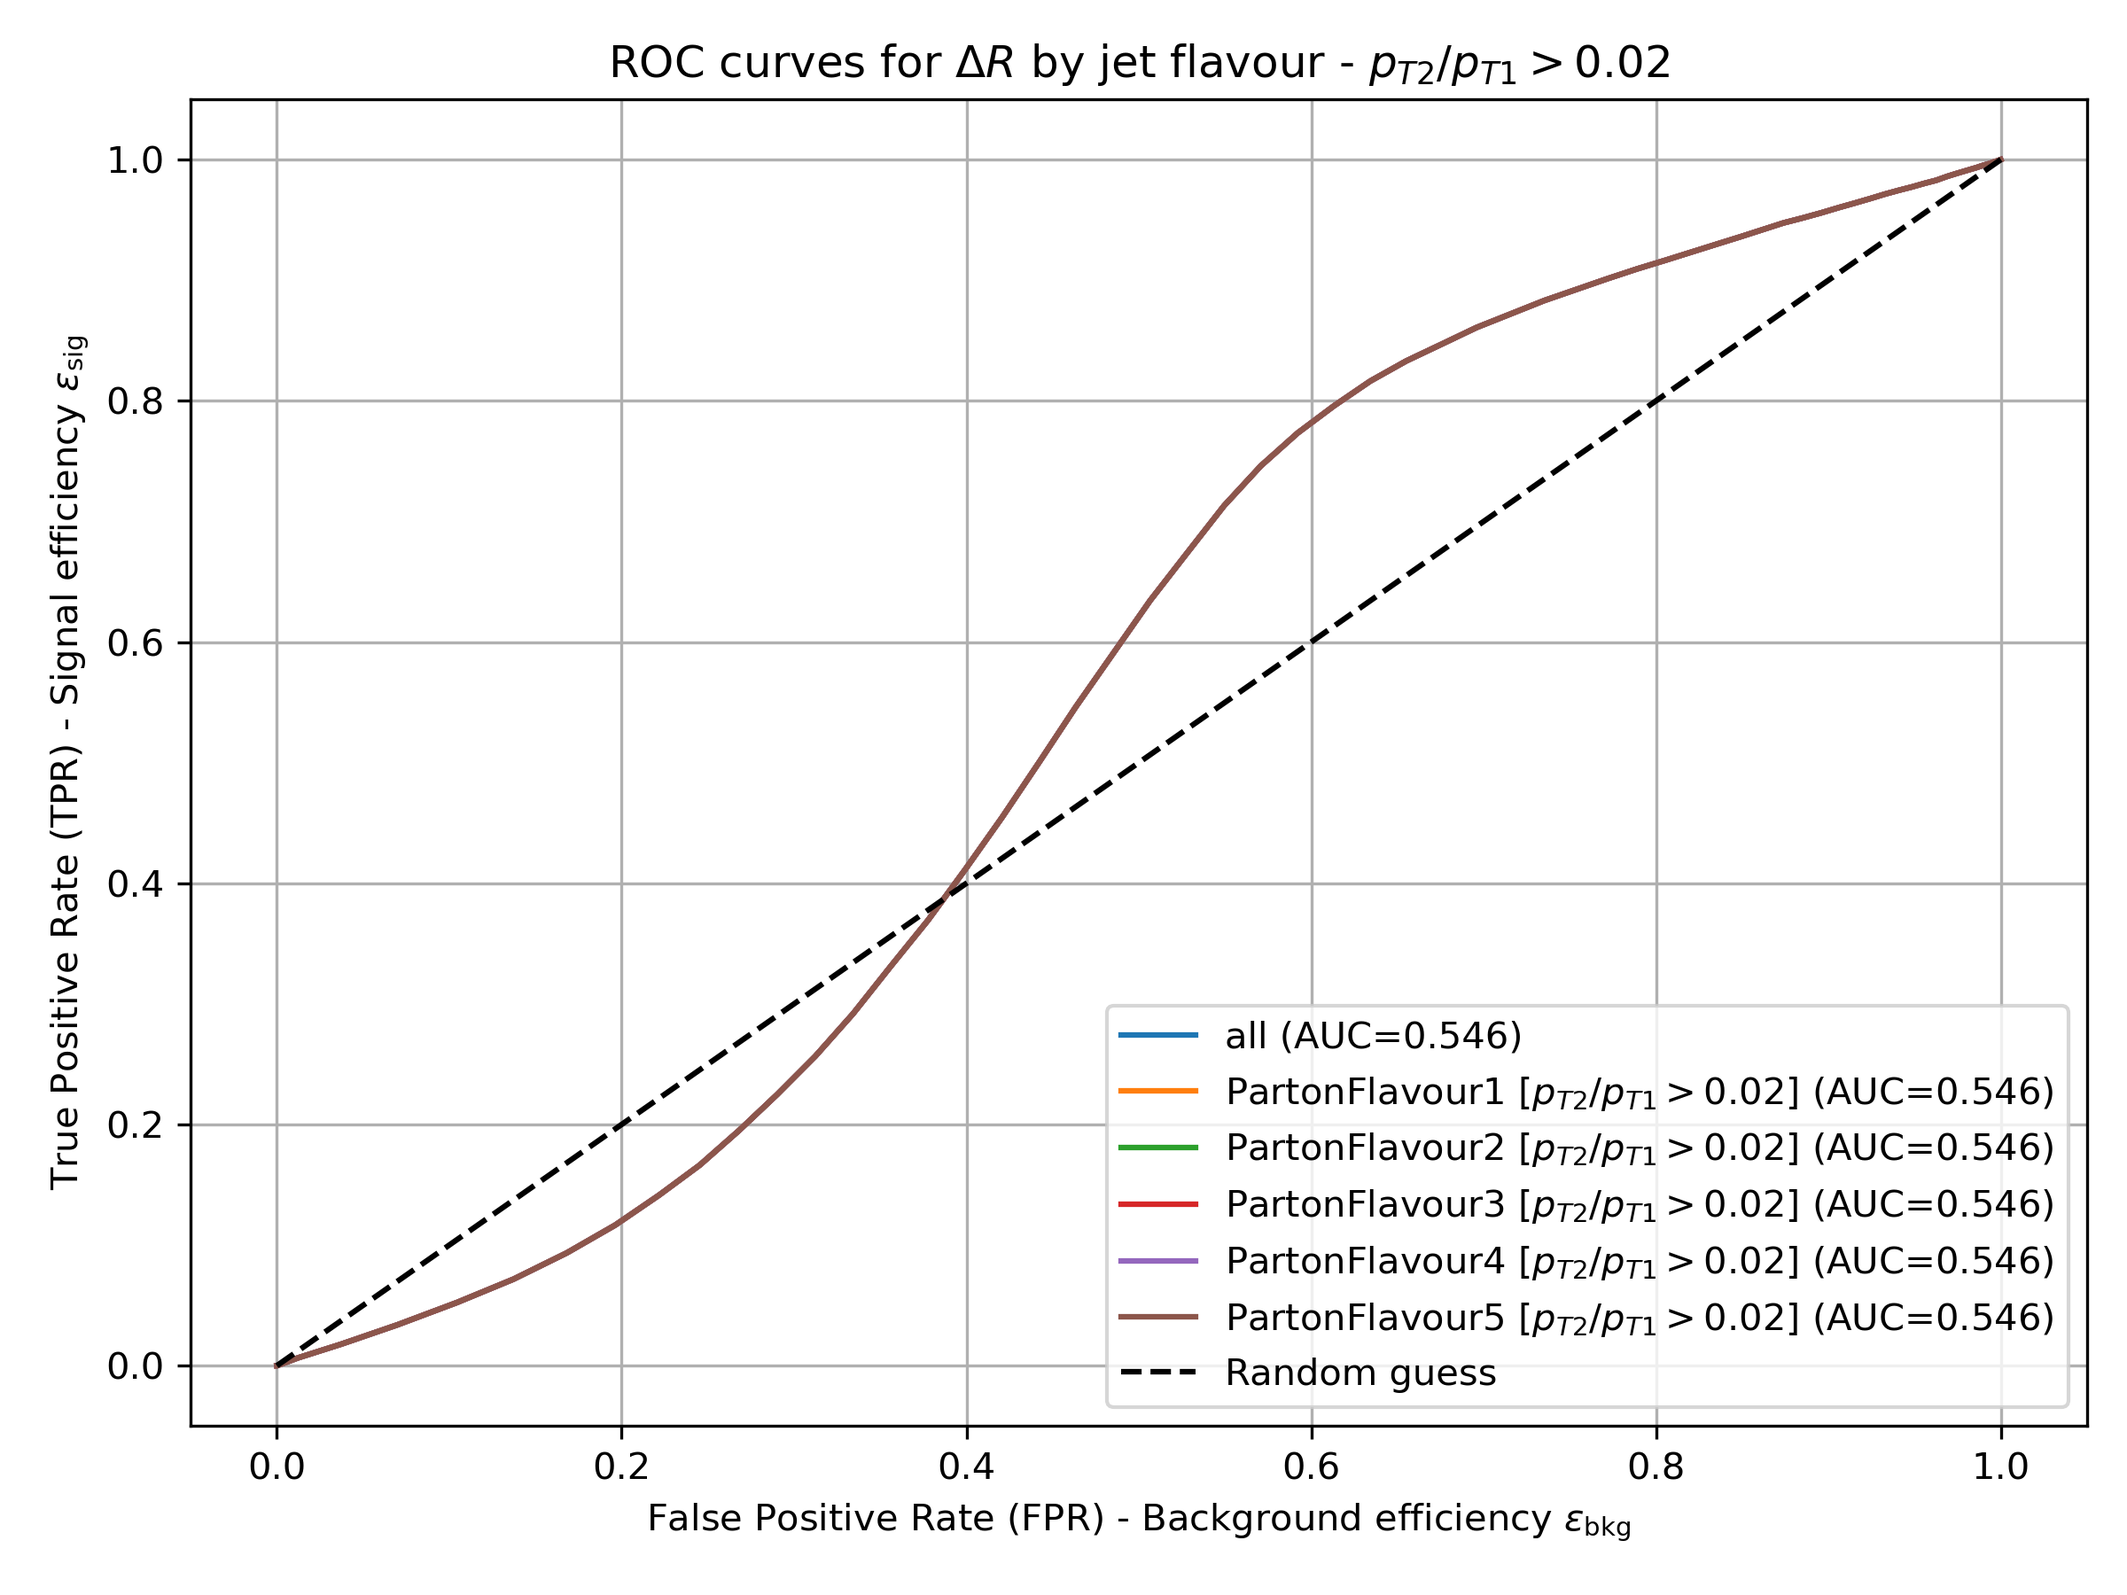
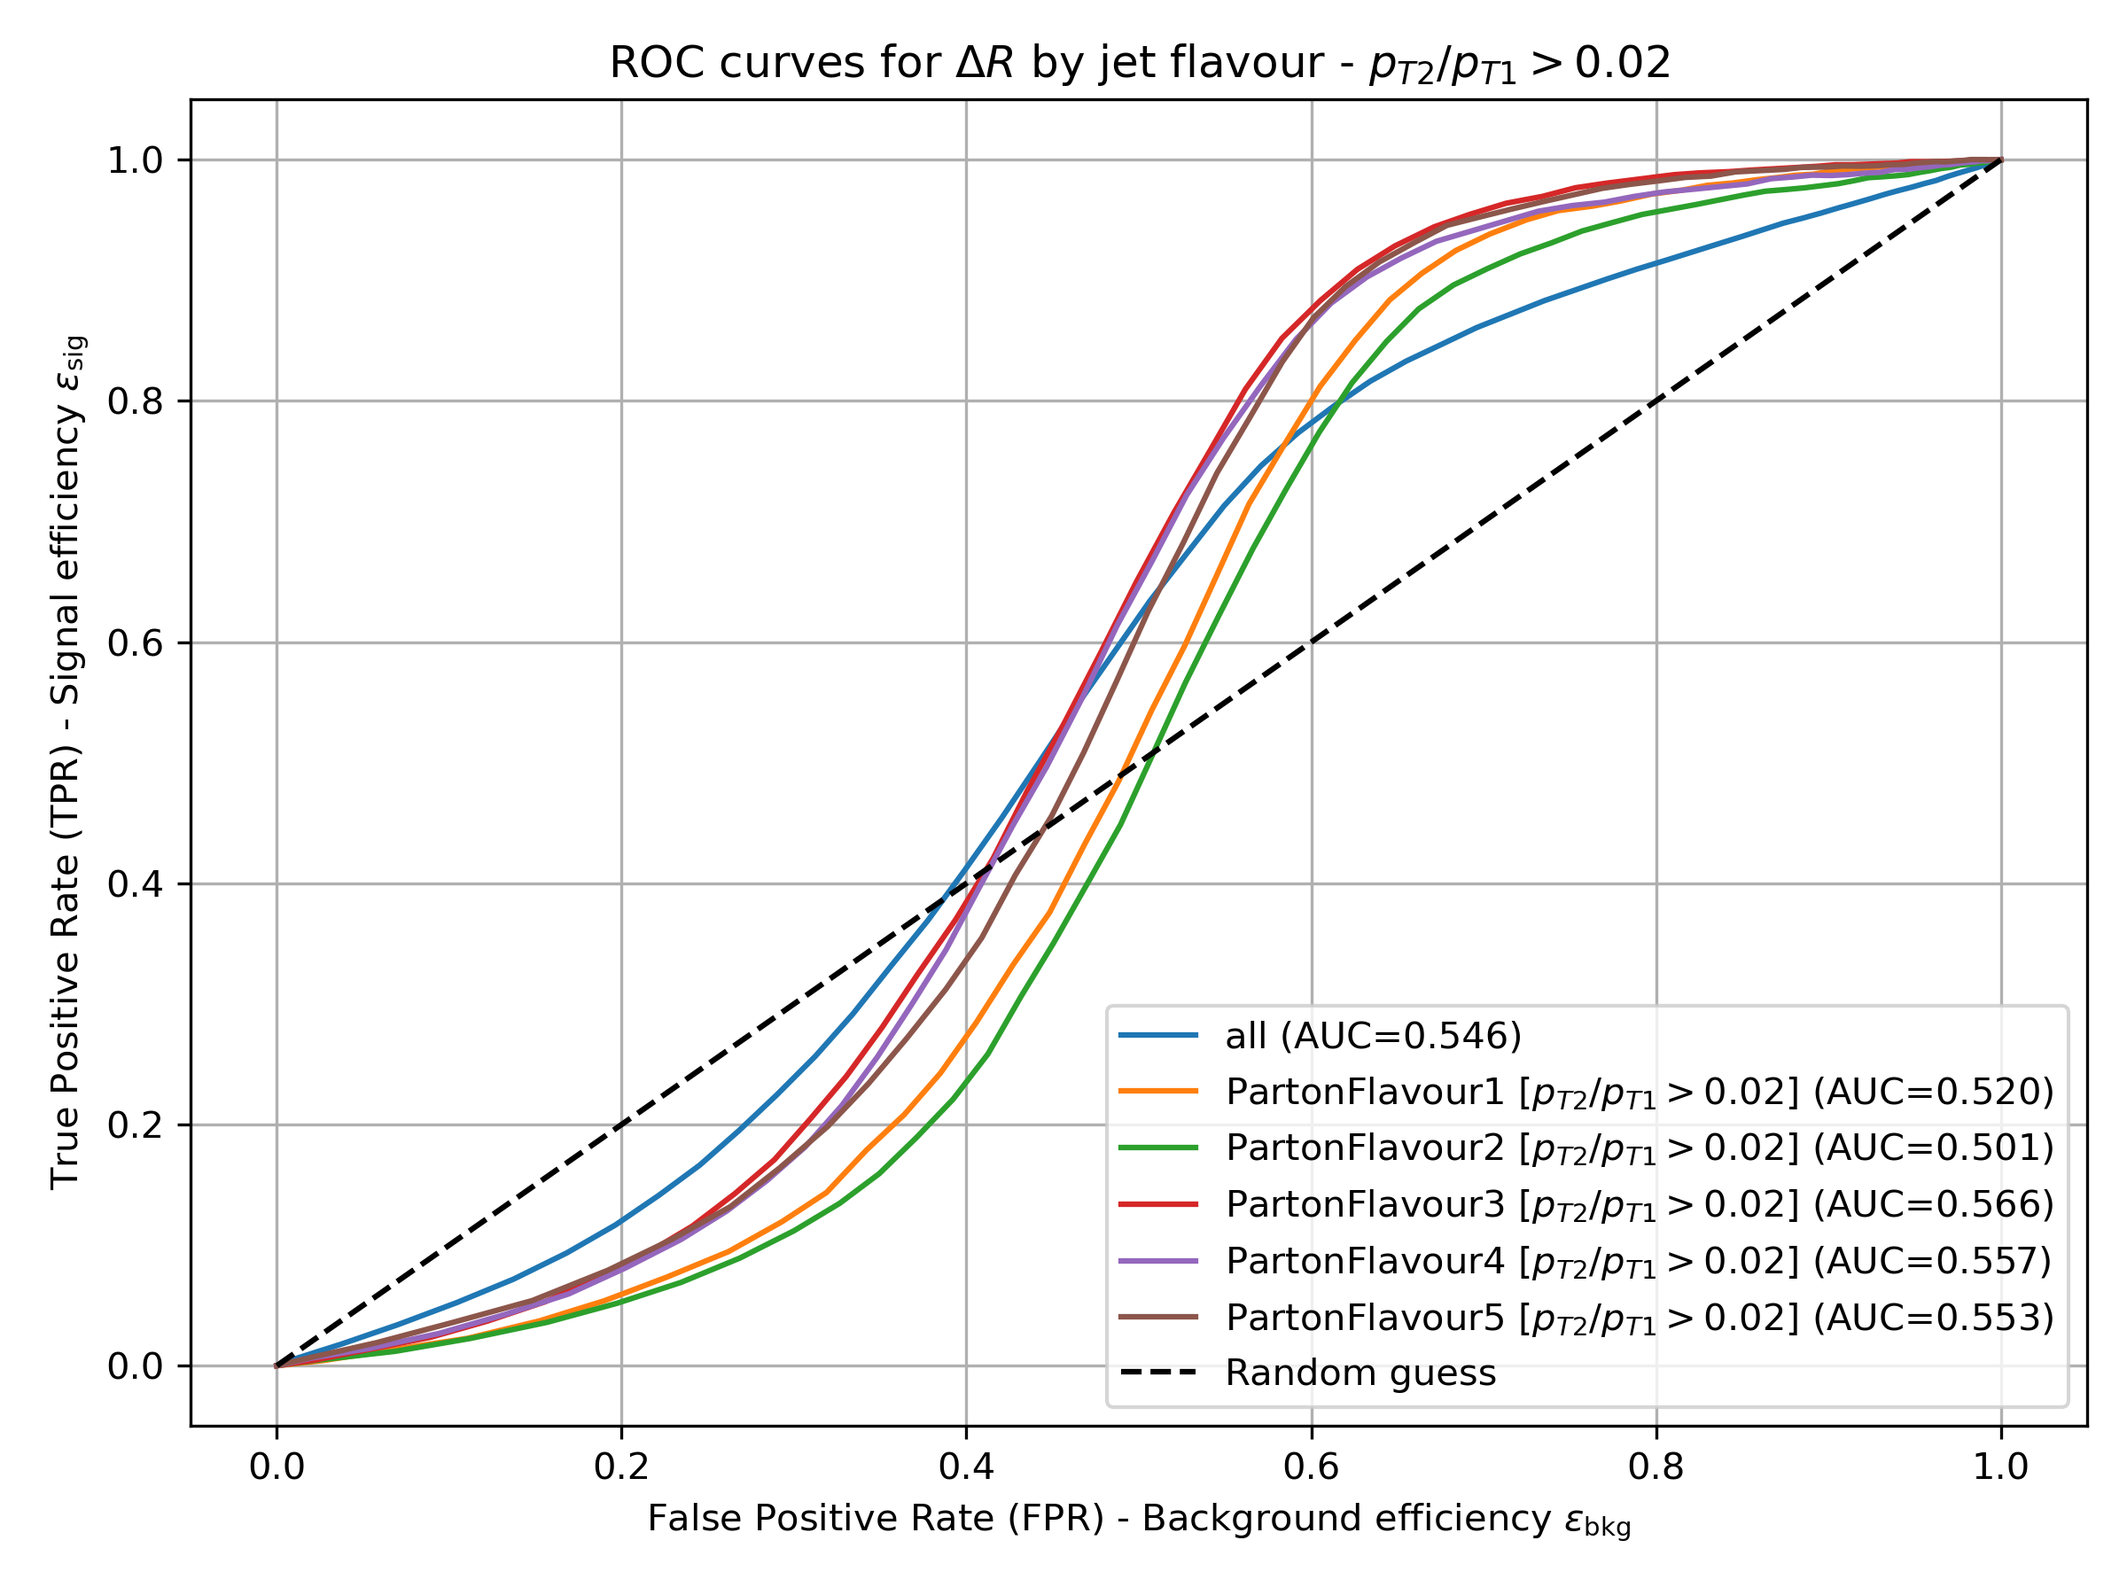
Cut-aware significance & ROC plots, bug fix in helper

Changed region(s): [[0.125, 0.0933, 0.9375, 0.8711], [0.9375, 0.7778, 0.9688, 0.84], [0.9375, 0.6844, 0.9688, 0.7467]]

diff --git a/macros/Deltas/Significance/significance.py b/macros/Deltas/Significance/significance.py
@@ -1,6 +1,7 @@
 import ROOT
 import matplotlib.pyplot as plt
 import numpy as np
+import os
 
 # --- Import ROOT files ---
 file_sg = ROOT.TFile('../../Source.root')
@@ -15,10 +16,17 @@ variables = {
     r'$\Delta R$': {'hist_name': 'Jet_delta_R', 'xrange': (0, 4),'cut_dir': 'less'}
 }
 
+# --- Cut suffixes ---
+
+cut_suffixes = {
+        'nocut':'',
+        'pt2pt1':'_cut_pt2pt1'
+}
+
 # --- Plot S/sqrt(S+B) ---
 
 # --- Make a plot ---
-def plot_significance(cut_points, significances, variable_name=None, save_path=None):
+def plot_significance(cut_points, significances, variable_name=None, save_path=None, cut_name=None):
     """
     Plot signal significance S / sqrt(S + B) vs cut threshold.
 
@@ -37,11 +45,13 @@ def plot_significance(cut_points, significances, variable_name=None, save_path=N
 
     # Plot curve
     plt.plot(cut_points, significances, label='Signal significance', lw=2)
+    title = r'Signal Significance vs Cut on ' + variable_name
+    if cut_name != 'nocut':
+        title += rf' (after $\mathrm{{{cut_name}}}$ cut)'
     plt.xlabel(f'Cut value on {variable_name}' if variable_name else 'Cut value')
     plt.axvline(best_cut,color='red',linestyle='--',label=f'Highest signal significance is {best_significance:.3f} at {best_cut:.3f}')
     plt.scatter([best_cut],[best_significance],color='red',zorder=5)
     plt.ylabel(r'Significance $S / \sqrt{S + B}$')
-    title = f'Signal Significance vs Cut on {variable_name}' if variable_name else 'Signal Significance vs Cut'
     plt.title(title)
     plt.grid(True)
     plt.legend()
@@ -52,32 +62,35 @@ def plot_significance(cut_points, significances, variable_name=None, save_path=N
 # --- Plot significance curves ---
 
 for label, info in variables.items():
-    sg_hist = file_sg.Get(f'{info["hist_name"]}_zg')
-    bg_hist = file_bg.Get(f'{info["hist_name"]}_gjets')
+        for cut_key,cut_suffix in cut_suffixes.items():
+            sg_hist = file_sg.Get(f'{info["hist_name"]}{cut_suffix}_zg')
+            bg_hist = file_bg.Get(f'{info["hist_name"]}{cut_suffix}_gjets')
 
-    if not sg_hist or not bg_hist or sg_hist.Integral() == 0 or bg_hist.Integral() == 0:
-        print(f"Skipping {label} due to missing or empty histograms.")
-        continue
+            if not sg_hist or not bg_hist or sg_hist.Integral() == 0 or bg_hist.Integral() == 0:
+                print(f"Skipping {label} - {cut_suffix} due to missing or empty histograms.")
+                continue
 
-    # Normalize
-    sg_hist.Scale(1 / sg_hist.Integral())
-    bg_hist.Scale(1 / bg_hist.Integral())
+            # Normalize
+            sg_hist.Scale(1 / sg_hist.Integral())
+            bg_hist.Scale(1 / bg_hist.Integral())
 
-    x_min, x_max = info['xrange']
-    x_vals = np.linspace(x_min, x_max, 500)
-    significances,cut_points = [],[]
-    for threshold in x_vals:
-        bin_thr = sg_hist.GetXaxis().FindBin(threshold)
-        if info['cut_dir'] == "less":
-            S = sg_hist.Integral(1, bin_thr)
-            B = bg_hist.Integral(1, bin_thr)
-        else:
-            S = sg_hist.Integral(bin_thr, sg_hist.GetNbinsX())
-            B = bg_hist.Integral(bin_thr, bg_hist.GetNbinsX())
-        
-        if S + B > 0:
-            significance = S/np.sqrt(S+B)
-            significances.append(significance)
-            cut_points.append(threshold)
-    plot_significance(cut_points,significances,label,f'plots/Significance_{info["hist_name"]}.png')
-    print(f'Significance curve for {label} plotted.')
+            x_min, x_max = info['xrange']
+            x_vals = np.linspace(x_min, x_max, 500)
+            significances,cut_points = [],[]
+            for threshold in x_vals:
+                bin_thr = sg_hist.GetXaxis().FindBin(threshold)
+                if info['cut_dir'] == "less":
+                    S = sg_hist.Integral(1, bin_thr)
+                    B = bg_hist.Integral(1, bin_thr)
+                else:
+                    S = sg_hist.Integral(bin_thr, sg_hist.GetNbinsX())
+                    B = bg_hist.Integral(bin_thr, bg_hist.GetNbinsX())
+                
+                if S + B > 0:
+                    significance = S/np.sqrt(S+B)
+                    significances.append(significance)
+                    cut_points.append(threshold)
+            outdir = f'plots/{cut_key}/'
+            os.makedirs(outdir,exist_ok=True)
+            plot_significance(cut_points,significances,label,f'{outdir}Significance_{info["hist_name"]}.png',cut_key)
+            print(f'Significance curve for {label} [{cut_key}] plotted.')

diff --git a/macros/Deltas/Deltas.py b/macros/Deltas/Deltas.py
@@ -10,6 +10,7 @@ def plot_hist(hist_name,x_label):
 	if not hist:
 		print(f'Histogram {hist_name} not found !')
 		return
+	
 	# Convert ROOT histogram to numpy
 	bins = hist.GetNbinsX()
 	x_values = np.array([hist.GetBinCenter(i) for i in range(1, bins+1)])
@@ -28,54 +29,6 @@ def plot_hist(hist_name,x_label):
 	plt.savefig(png_filename,dpi=300)
 	print(f'Saved {png_filename}')
 	plt.close()
-
-def plot_approx_deltaR(hist_eta_name,hist_phi_name,label_suffix):
-	hist_eta = inputfile.Get(hist_eta_name)
-	hist_phi = inputfile.Get(hist_phi_name)
-	if not hist_eta or not hist_phi:
-		print(f'Error : {hist_eta} or {hist_phi} not found.')
-		return 
-	nbins_eta = hist_eta.GetNbinsX()
-	nbins_phi = hist_phi.GetNbinsX()
-	
-	if nbins_phi != nbins_eta:
-		print(f'Error: {hist_eta} and {hist_phi} do not have matching binning.')
-		return 
-	x_vals = []
-	y_vals = []
-	
-	for i in range(1, nbins_eta + 1):
-		eta = hist_eta.GetBinCenter(i)
-		phi = hist_phi.GetBinCenter(i)
-		deltaR = np.sqrt(eta**2 + phi**2)
-		
-		eta_entries = hist_eta.GetBinContent(i)
-		phi_entries = hist_phi.GetBinContent(i)
-		entry = np.sqrt(eta_entries**2 + phi_entries**2)
-
-		x_vals.append(deltaR)
-		y_vals.append(entry)
-
-	# Save in a CSV file
-	csv_filename = f'Jet_DeltaR_{label_suffix}.csv'
-	with open(csv_filename,mode='w',newline='') as f:
-		writer = csv.writer(f)
-		writer.writerow(["Delta R","Entries"])
-		writer.writerows(zip(x_vals,y_vals))
-		print(f'Saved data to {csv_filename}')
-
-	plt.figure(figsize=(8,6))
-	plt.scatter(x_vals,y_vals,color='purple',label=r'Approximate $\Delta R$',s=10)
-	plt.xlabel(r'$\Delta R = \sqrt{\Delta\eta^2 + \Delta\phi^2}$')
-	plt.ylabel('Approximate entries')
-	plt.title(r'Approximate $\Delta R$ distribution')
-	plt.grid()
-	
-	filename=f'Jet_deltaR_{label_suffix}.png'
-	plt.savefig(filename,dpi=300)
-	print(f'Saved {filename}')
-	plt.close()
-
 
 # Process both Source and background
 for S in [0,1]:
@@ -116,68 +69,4 @@ for S in [0,1]:
 	for hist_name,x_label in hist_names.items():
 		plot_hist(hist_name, x_label)
 
-	#plot_approx_deltaR(hist_eta_name,hist_phi_name,label_suffix)
 	inputfile.Close()
-
-'''
-The following code was indented to sum the data and show the overlay. It doesn't work.
-'''
-
-## Define histogram pairs for overlaying
-#hist_pairs = [
-#    ("Jet_delta_eta_gjets;1", "Jet_delta_eta_zg;1"),
-#    ("Jet_delta_phi_gjets;1", "Jet_delta_phi_zg;1"),
-#    ("Jet_delta_pT_gjets;1", "Jet_delta_pT_zg;1"),
-#]
-#
-## Open ROOT files
-#background_file = ROOT.TFile("../Background.root", "open")
-#source_file = ROOT.TFile("../Source.root", "open")
-#
-## Function to extract histogram data
-#def extract_hist_data(hist):
-#	bins = hist.GetNbinsX()
-#	x_values = np.array([hist.GetBinCenter(i) for i in range(1, bins + 1)])
-#	y_values = np.array([hist.GetBinContent(i) for i in range(1, bins + 1)])
-#	return x_values, y_values
-#
-## Function to overlay histograms
-#def sum_histograms(hist_bg_name, hist_src_name): hist_bg = backgroun.Get(hist_bg_name)
-#	hist_src = source_file.Get(hist_src_name)
-#
-#	if not hist_bg or not hist_src:
-#		print(f"Histogram {hist_bg_name} or {hist_src_name} not found!")
-#		return
-#
-#	# Extract data
-#	x_bg, y_bg = extract_hist_data(hist_bg)
-#	x_src, y_src = extract_hist_data(hist_src)
-#
-#	# Sum histograms (bin-by-bin)
-#	y_sum = y_bg + y_src
-#
-#	# Plot
-#	plt.figure(figsize=(8, 6))
-#	plt.scatter(x_bg, y_bg, color="red", label="Background (Gamma+jets)", s=10)
-#	plt.scatter(x_src, y_src, color="blue", label="Signal (ZG)", s=10)
-#	plt.scatter(x_bg, y_sum, color="purple", label="Summed Signal + Background", s=10)
-#	
-#	plt.xlabel(hist_bg.GetXaxis().GetTitle())
-#	plt.ylabel("Entries")
-#	plt.title(hist_bg_name.replace(";1", ""))
-#	plt.grid()
-#	plt.legend()
-#
-#	# Save overlayed histogram	
-#	png_filename = hist_bg_name.replace(";1", "_comparison.png")
-#	plt.savefig(png_filename, dpi=300)
-#	print(f"Saved {png_filename}")
-#	plt.close()
-#
-## Loop through histogram pairs
-#for hist_bg_name, hist_src_name in hist_pairs:
-#	sum_histograms(hist_bg_name, hist_src_name)
-#
-## Close files
-#background_file.Close()
-#source_file.Close()	 

diff --git a/helpers/helper_gammaztobb.py b/helpers/helper_gammaztobb.py
@@ -12,6 +12,11 @@ import numpy as np
 #For JECs
 from corrections_modified import *
 
+'''
+TO DO : uniformize mjj_partonflavour vs mjj_PartonFlavour
+'''
+
+
 variables = {
         'Jet_delta_eta': (100,0,5),
         'Jet_delta_phi': (100,0,5),
@@ -20,8 +25,8 @@ variables = {
         'Jet_delta_R': (100,0,5)
     }
 cut_conditions = {
-	'pt2pt1': 'Jet_pT2pT1 > 0.02',
-	'Delta_R': 'Jet_delta_R < 3.95'
+        'pt2pt1': 'Jet_pT2pT1 > 0.02',
+        'Delta_R': 'Jet_delta_R < 3.95'
 }
 
 def plot_jet_kinematics_by_flavour(df, histos, label_suffix=''):
@@ -45,27 +50,28 @@ def plot_jet_kinematics_by_flavour(df, histos, label_suffix=''):
     return df
 
 def cut_fill_histos(df, condition_expr,label):
-	histos_cut = {}
-	df_cut = df.Filter(condition_expr,label)
+        histos_cut = {}
+        df_cut = df.Filter(condition_expr,label)
 
-	# Inclusive mjj
-	histos_cut[f'mjj_cut_{label}'] = df_cut.Histo1D(ROOT.RDF.TH1DModel(f'mjj_cut_{label}', '', 1000, 0, 1000), 'Mjj', 'LHEWeight_originalXWGTUP')
+        # Inclusive mjj
+        histos_cut[f'mjj_cut_{label}'] = df_cut.Histo1D(ROOT.RDF.TH1DModel(f'mjj_cut_{label}', '', 1000, 0, 1000), 'Mjj', 'LHEWeight_originalXWGTUP')
 
-	# Flavour-filtered mjj
-	for k in range(1,6):
-	   flav_label = f'PartonFlavour_{k}_cut_{label}'
-	   histos_cut[f'mjj_{flav_label}'] = df_cut.Filter(f'Sum(Jet_TightID_Pt30_Central_PartonFlavour{k})==2').Histo1D(ROOT.RDF.TH1DModel(f'mjj_{flav_label}', '', 1000, 0, 1000), 'Mjj', 'LHEWeight_originalXWGTUP')
+        # Flavour-filtered mjj
+        for k in range(1,6):
+           flav_label = f'PartonFlavour_{k}_cut_{label}'
+           histos_cut[f'mjj_{flav_label}'] = df_cut.Filter(f'Sum(Jet_TightID_Pt30_Central_PartonFlavour{k})==2').Histo1D(ROOT.RDF.TH1DModel(f'mjj_{flav_label}', '', 1000, 0, 1000), 'Mjj', 'LHEWeight_originalXWGTUP')
 
-	# Inclusive Kinematic histograms
-	for varname,(nbins,xmin,xmax) in variables.items():
-	   histos_cut[f'{varname}_cut_{label}'] = df_cut.Histo1D(ROOT.RDF.TH1DModel(f'{varname}_cut_{label}','',nbins,xmin,xmax),varname,'LHEWeight_originalXWGTUP')
+        # Inclusive Kinematic histograms
+        for varname,(nbins,xmin,xmax) in variables.items():
+           histos_cut[f'{varname}_cut_{label}'] = df_cut.Histo1D(ROOT.RDF.TH1DModel(f'{varname}_cut_{label}','',nbins,xmin,xmax),varname,'LHEWeight_originalXWGTUP')
 
-	# Flavour-filtered kinematic histograms
-	for varname,(nbins,xmin,xmax) in variables.items():
-	   for k in range(1,6):
-	       histos_cut[f'{varname}_PartonFlavour{k}_cut_{label}'] = df_cut.Histo1D(ROOT.RDF.TH1DModel(f'{varname}_PartonFlavour{k}_cut_{label}','',nbins,xmin,xmax),varname,'LHEWeight_originalXWGTUP')
+        # Flavour-filtered kinematic histograms
+        for varname,(nbins,xmin,xmax) in variables.items():
+           for k in range(1,6):
+               flav_df_cut = df_cut.Filter(f'Sum(Jet_TightID_Pt30_Central_PartonFlavour{k})==2')
+               histos_cut[f'{varname}_PartonFlavour{k}_cut_{label}'] = flav_df_cut.Histo1D(ROOT.RDF.TH1DModel(f'{varname}_PartonFlavour{k}_cut_{label}','',nbins,xmin,xmax),varname,'LHEWeight_originalXWGTUP')
 
-	return histos_cut
+        return histos_cut
 
 def GammaZSelection(df, year=2023, era='C', isData=False):
     '''
@@ -174,10 +180,10 @@ def GammaZSelection(df, year=2023, era='C', isData=False):
     # Plot these variables in histograms
     
     for k in range(1,6):
-    	# Create a filtered datafrom for each flavour
+        # Create a filtered datafrom for each flavour
         flav_var = f'Jet_TightID_Pt30_Central_PartonFlavour{k}'
         df_flav = df.Filter(f'Sum({flav_var})==2',f'Both jets have flavour {k}')
-	# Loop over each variable
+        # Loop over each variable
         for varname, (nbins,xmin,xmax) in variables.items():
             hist_name = f'{varname}_PartonFlavour{k}'
             histos[hist_name] = df_flav.Histo1D(ROOT.RDF.TH1DModel(hist_name,'',nbins,xmin,xmax),varname,'LHEWeight_originalXWGTUP')

diff --git a/macros/Deltas/ROC/roc.py b/macros/Deltas/ROC/roc.py
@@ -1,5 +1,7 @@
 import ROOT
 import numpy as np
+import matplotlib
+matplotlib.use("Agg")  # avoid GUI with matplotlib
 import matplotlib.pyplot as plt
 import os
 
@@ -126,10 +128,10 @@ for cut_name,cut_suffix in cuts.items():
                         print(f'ROC curve for {label} ready')
                         
                 for flavour in flavours:
-                        suffix = f'_{flavour}' if flavour else ''
-
-                        sg_hist_name = f'{info["hist_name"]}{cut_suffix}{suffix}_zg'
-                        bg_hist_name = f'{info["hist_name"]}{cut_suffix}{suffix}_gjets'
+                        #suffix = f'_{flavour}' if flavour else ''
+                        suffix = f'_{flavour}{cut_suffix}'
+                        sg_hist_name = f'{info["hist_name"]}{suffix}_zg'
+                        bg_hist_name = f'{info["hist_name"]}{suffix}_gjets'
 
                         sg_hist = file_sg.Get(sg_hist_name)
                         bg_hist = file_bg.Get(bg_hist_name)
